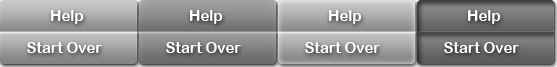
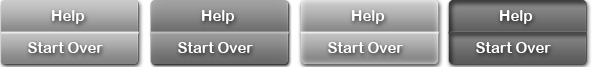
restart/help buttons

diff --git a/liboh/plugins/ogre/data/chrome/ui/screens/bottombar.html b/liboh/plugins/ogre/data/chrome/ui/screens/bottombar.html
@@ -9,14 +9,14 @@ $('#bottombar').ready( function () {
 
 	
 	$("#bottombar li").bind('mouseover', function(event){
-		$(this).css('background-position-x', '-139px');	
+		$(this).css('background-position-x', '-150px');	
 					
 	});
 	$("#bottombar li").bind('mouseout', function(event){
 		$(this).css('background-position-x', '0px');						
 	});
 	$("#bottombar li").mousedown( function(event){
-		$(this).css('background-position-x', '-278px');						
+		$(this).css('background-position-x', '-300px');						
 	});
 });
 

diff --git a/liboh/plugins/ogre/data/chrome/ui/css/style.css b/liboh/plugins/ogre/data/chrome/ui/css/style.css
@@ -74,8 +74,8 @@ ul#topbar-critique {
 	/*height: 37px; */
 	padding: 0px;
 	margin: 0px ;
-	background: url(../images/vertical_menu.png) no-repeat ;
-	list-style: none;
+	/*background: url(../images/vertical_menu.png) no-repeat ;
+	*/list-style: none;
 }
 #bottombar li {
 	/*float:left;*/
@@ -85,7 +85,7 @@ ul#topbar-critique {
 	padding-bottom:0px;
 	background: url(../images/vertical_menu.png) no-repeat;
 	height: 33px;
-	width: 139px;
+	width: 140px;
 	text-align: center;
 }
 
